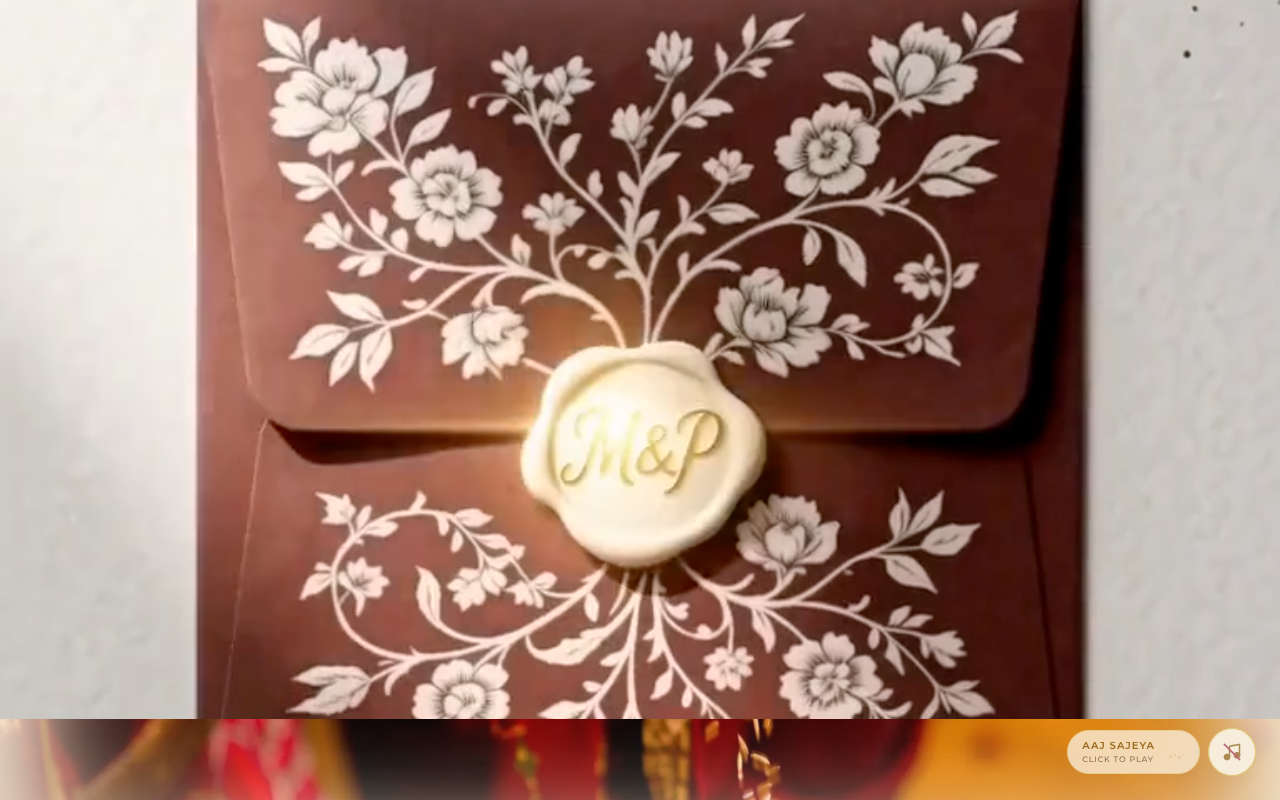
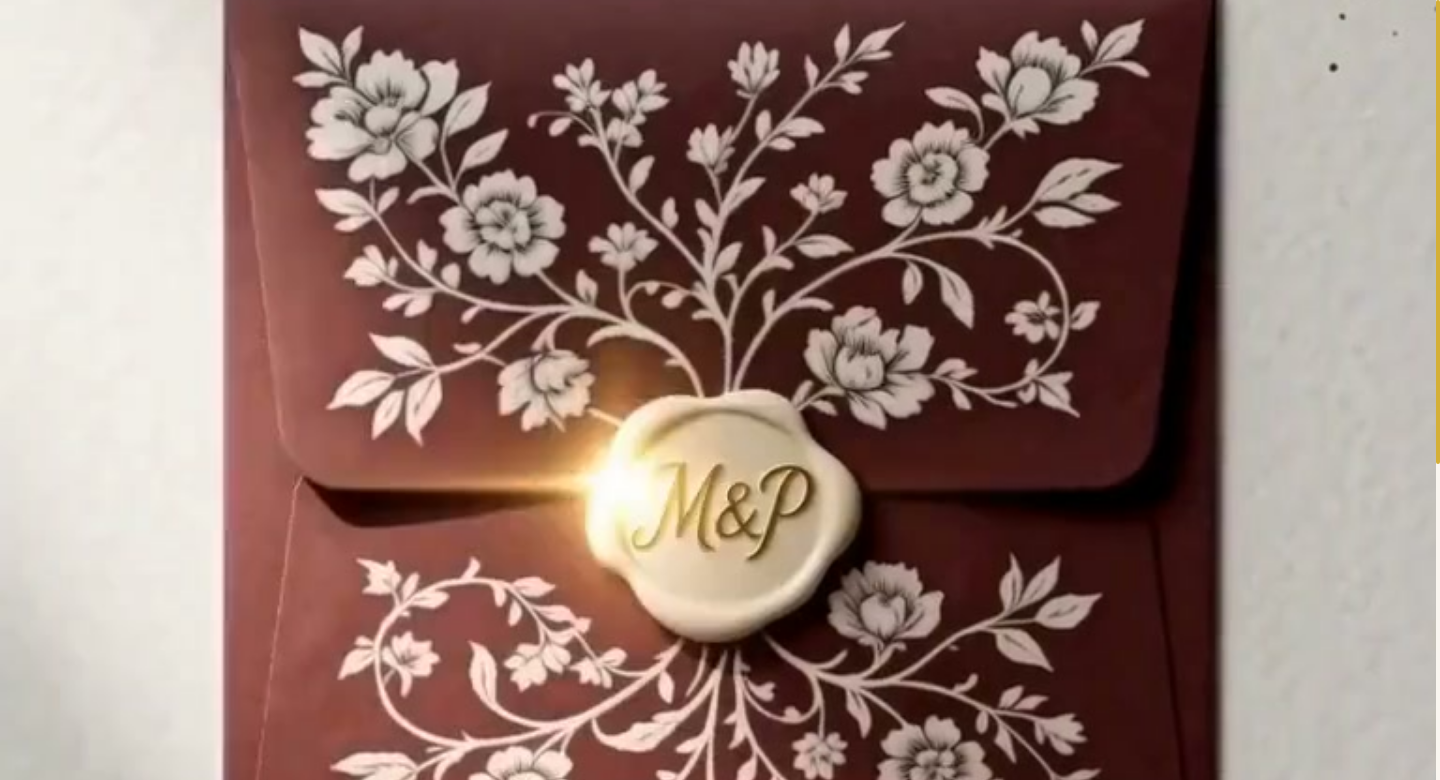
feat: light glassmorphism arrow buttons and aesthetic photos for first 3 projects

diff --git a/src/data/site.ts b/src/data/site.ts
@@ -210,7 +210,7 @@ export const siteData = {
       ],
       tech: ['Astro'],
       liveUrl: 'https://invifestx16.vercel.app',
-      image: '/projects/royal-wedding-mobile.png',
+      image: '/projects/royal-wedding.png',
     },
     {
       id: 'civic-voice',
